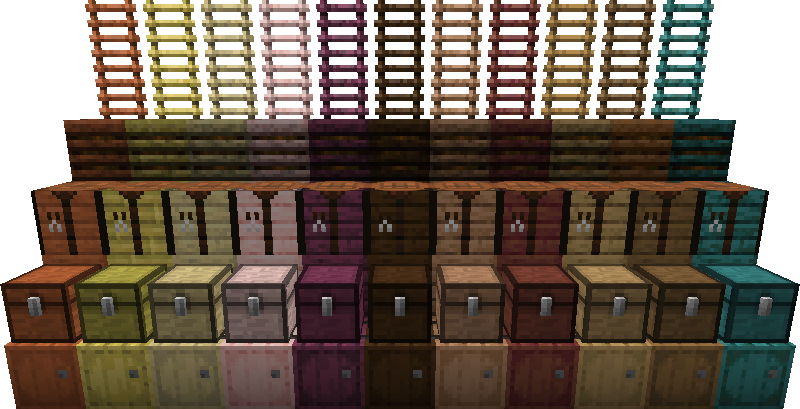
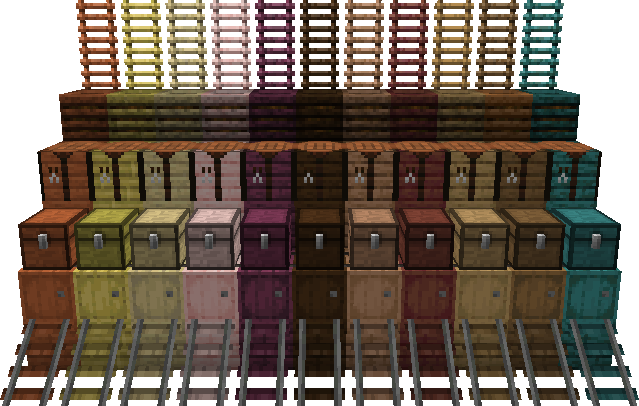
fix: tag issue with chests
Fixed missing tag with spruce chest.
Added logo to mod for in-game
Updated github preview

diff --git a/README.md b/README.md
@@ -20,6 +20,7 @@ Acacia · Bamboo · Birch · Cherry · Crimson · Dark Oak · Jungle · Mangrove
 - 🌿 **Composters**
 - 🛠 **Crafting Tables**
 - 🪜 **Ladders**
+- 🚂 **Rails**
 
 Each block is available in the wood types listed above 💗
 
